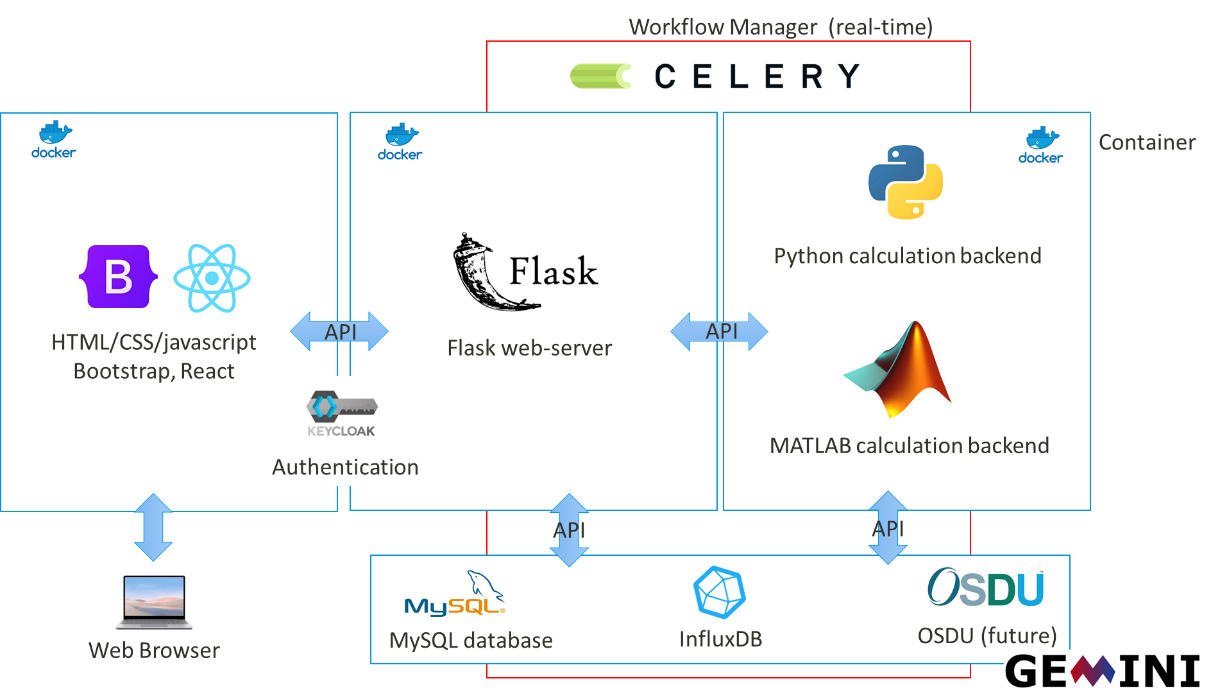
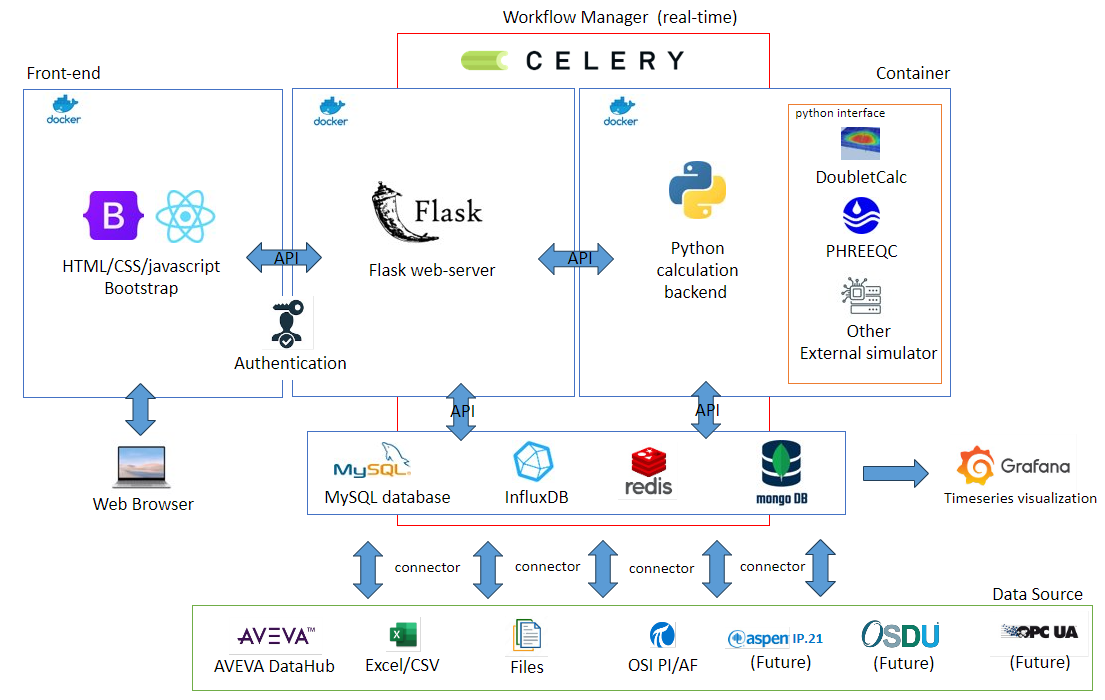
add some text in chpater 1

diff --git a/source/start_installation.rst b/source/start_installation.rst
@@ -1,3 +1,5 @@
+.. _installation:
+
 Installation
 ===========================
 
@@ -14,6 +16,7 @@ docker-compose.yml
  .. code-block::
     :linenos:
 
+
     version: '3.8'
 
     networks:
@@ -21,9 +24,14 @@ docker-compose.yml
 
     services:
         gemini_framework:
-            image: ghcr.io/gemini-digital-twin/gemini-framework:MVP
+            image: ghcr.io/gemini-digital-twin/gemini-framework:MVPv2
             environment:
-                - GEMINI_PLANT=HAL
+                - GEMINI_PLANT=   # put project name
+                - INFLUXDB_URL=http://influxdb:8086
+                - INFLUXDB_ORG=TNO
+                - INFLUXDB_USERNAME=gemini-username
+                - INFLUXDB_PASSWORD=gemini-password
+                - INFLUXDB_BUCKET=gemini-project
             volumes:
                 - project-db:/opt/gemini-project
             depends_on:
@@ -32,23 +40,53 @@ docker-compose.yml
                 - gemini
 
         gemini_gui:
-            image: ghcr.io/gemini-digital-twin/gemini-user-interface:MVP
+            image: ghcr.io/gemini-digital-twin/gemini-user-interface:MVPv2
             ports:
                 - 5101:5101
             environment:
                 - GEMINI_FRONTEND_PORT=5101
                 - GEMINI_MYSQLDB_URL=mysqldb
+                - CELERY_BROKER_URL=redis://redis:6379/0
+                - CELERY_RESULT_BACKEND=redis://redis:6379/0
+                - MONGODB_HOST=mongodb
+                - MONGODB_PORT=27017
+                - MONGODB_USERNAME=root
+                - MONGODB_USERNAME=gemini
+                - INFLUXDB_URL=http://influxdb:8086
+                - INFLUXDB_ORG=TNO
+                - INFLUXDB_USERNAME=gemini-username
+                - INFLUXDB_PASSWORD=gemini-password
+                - INFLUXDB_BUCKET=gemini-project
+                - GEMINI_ADMIN_EMAIL=admin@localhost
+                - GEMINI_ADMIN_PASSWORD=Admin123456!@#$
             restart: unless-stopped
             volumes:
                 - project-db:/opt/gemini-project
                 - doc-db:/opt/gemini-documentation
             depends_on:
                 - mysqldb
+                - influxdb
+                - mongodb
+                - redis
+            networks:
+                - gemini
+
+        gemini_celery:
+            image: ghcr.io/gemini-digital-twin/gemini-celery:MVPv2
+            environment:
+                - PYTHONUNBUFFERED=1
+                - CELERY_BROKER_URL=redis://redis:6379/0
+                - CELERY_RESULT_BACKEND=redis://redis:6379/0
+            restart: unless-stopped
+            volumes:
+                - project-db:/opt/gemini-project
+            depends_on:
+                - redis
             networks:
                 - gemini
 
         gemini_doc:
-            image: ghcr.io/gemini-digital-twin/gemini-documentation:MVP
+            image: ghcr.io/gemini-digital-twin/gemini-documentation:MVPv2
             restart: unless-stopped
             volumes:
                 - doc-db:/opt/gemini-documentation
@@ -56,10 +94,25 @@ docker-compose.yml
                 - gemini
 
         gemini_project:
-            image: ghcr.io/gemini-digital-twin/gemini-project:MVP
+            image: ghcr.io/gemini-digital-twin/gemini-project:MVPv2
             restart: unless-stopped
             volumes:
                 - project-db:/opt/gemini-project
+            networks:
+                - gemini
+
+        grafana:
+            image: grafana/grafana:latest
+            ports:
+                - 3000:3000
+            environment:
+                - GF_SECURITY_ALLOW_EMBEDDING=true
+                - GF_SECURITY_ADMIN_USER=admin
+                - GF_SECURITY_ADMIN_PASSWORD=G3m1n!_@dmin
+            volumes:
+                - grafana-storage:/var/lib/grafana
+            depends_on:
+                - influxdb
             networks:
                 - gemini
 
@@ -77,20 +130,6 @@ docker-compose.yml
             networks:
                 - gemini
 
-        grafana:
-            image: grafana/grafana:latest
-            ports:
-                - 3000:3000
-            environment:
-                - GF_SECURITY_ALLOW_EMBEDDING=true
-                #- GF_SECURITY_COOKIE_SAMESITE=none
-            volumes:
-                - grafana-storage:/var/lib/grafana
-            depends_on:
-                - influxdb
-            networks:
-            - gemini
-
         influxdb:
             image: influxdb:latest
             ports:
@@ -102,11 +141,31 @@ docker-compose.yml
                 - DOCKER_INFLUXDB_INIT_BUCKET=gemini-project
                 - DOCKER_INFLUXDB_INIT_USERNAME=gemini-user
                 - DOCKER_INFLUXDB_INIT_PASSWORD=gemini-password
-                - DOCKER_INFLUXDB_INIT_TOKEN=gemini-token
             volumes:
                 - influxdb-storage:/var/lib/influxdb
                 - influxdb2-storage:/var/lib/influxdb2
                 - influxdb2etc-storage:/etc/influxdb2
+            restart: unless-stopped
+            networks:
+                - gemini
+
+        redis:
+            image: redis:6-alpine
+            ports:
+                - 6379:6379
+            restart: unless-stopped
+            networks:
+                - gemini
+
+        mongodb:
+            image: mongo:latest
+            ports:
+                - 27017:27017
+            environment:
+                - MONGO_INITDB_ROOT_USERNAME=root
+                - MONGO_INITDB_ROOT_PASSWORD=gemini
+            volumes:
+                - mongo-storage:/data/db
             restart: unless-stopped
             networks:
                 - gemini
@@ -120,6 +179,8 @@ docker-compose.yml
         influxdb2etc-storage:
         project-db:
         doc-db:
+        mongo-storage:
+
 
 There are several services in this docker-compose.yml file:
 
@@ -134,6 +195,10 @@ There are several services in this docker-compose.yml file:
     to access user authentication and project. The port number can be defined in GEMINI_FRONTEND_PORT
     environment variable. The container shares volume of project-db with other container to have a
     common project data and volume of doc-db to access the documentation.
+
+#. GEMINI Celery
+    Celery is an open source asynchronous task queue or job queue which is based on distributed
+    message passing. While it supports scheduling, its focus is on operations in real time.
 
 #. GEMINI Documentation
     This container provides the web-based documentation of GEMINI. The content is shared with GEMINI
@@ -157,6 +222,15 @@ There are several services in this docker-compose.yml file:
     data in fields such as operations monitoring, application metrics, Internet of Things sensor
     data, and real-time analytics. We use this database to store time series data from Geothermal
     assets.
+
+#. REDIS
+    Redis is an open source data structure server. It belongs to the class of NoSQL databases known
+    as key/value stores. Redis is used as result and message broker of celery workflow.
+
+#. MongoDB
+    MongoDB is built on a scale-out architecture that has become popular with developers of all
+    kinds for developing scalable applications with evolving data schemas. As a document database,
+    MongoDB makes it easy for developers to store structured or unstructured data.
 
 
 

diff --git a/source/start_projects.rst b/source/start_projects.rst
@@ -2,7 +2,8 @@
 
 Projects
 ===========================
-**Note:** Users can create a project, but only an administrator can delete one. Additionally, an administrator can assign users to an existing project. Once assigned, users can modify the project.
+.. note::
+    Users can create a project, but only an administrator can delete one. Additionally, an administrator can assign users to an existing project. Once assigned, users can modify the project.
 
 Create New Project
 ---------------------------
@@ -31,7 +32,10 @@ Create New Project
         :width: 100%
 
 
-**Steps for Administrators to Assign Users to a New Project:**
+Project Group
+---------------------------
+
+**Steps for Administrators to Assign Users to a Project using Group:**
 
 1. Log in as Administrator:
 
@@ -89,7 +93,8 @@ Open Existing Project
 Delete Project
 ---------------------------
 
-**Note:** Only an administrator can delete a project.
+.. note::
+    Only an administrator can delete a project.
 
 **Steps for Administrators to delete a Project:**
 
@@ -112,22 +117,4 @@ Delete Project
    - Once confirmed, close the project.
 
     .. image:: images/Start_project_14.jpg
-        :width: 100%
-    
-3. Remove Project from Admin Manager:
-
-   - Navigate to the Admin Manager page. Under the "Project" option, select the "bin" icon or use the "Delete" option from the dropdown menu ("With Selected" option).
-
-    .. image:: images/Start_project_15.jpg
-        :width: 100%
-        
-   - Confirm the deletion when prompted.
-
-    .. image:: images/Start_project_16.jpg
-        :width: 100%
-
-
-   - A confirmation message will appear once the selected project is deleted successfully.
-
-    .. image:: images/Start_project_17.jpg
         :width: 100%

diff --git a/source/start_login.rst b/source/start_login.rst
@@ -1,17 +1,22 @@
 Login Page
 ================================
+
+The login page can be accessed via web browser using url: http://localhost:5101/. Note: this url is only for local installation. For server implementation, you need to access the IP address or DNS of the machine.
+
     .. image:: images/Start_login.JPG
         :width: 100%
 
 Sign Up
 --------------------------------
-**Note:** The sign-up process must be completed by an administrator. Users cannot self-register and will need to contact an administrator to create their account.
+.. note::
+    The sign-up process must be completed by an administrator. Users cannot self-register and will need to contact an administrator to create their account.
 
 **Steps for Administrators to Sign Up a New User:**
 
 1. Log in as Administrator:
 
    - Navigate to the login page and sign in using your administrator credentials.
+   - The administrator credentials can be found in :numref:`installation`
 
 
 2. Access User Management:

diff --git a/source/index_getting_started.rst b/source/index_getting_started.rst
@@ -3,14 +3,14 @@
 Getting started
 ==============================================
 
-In this page you can find the links to all pages that give a general overview to the GEMINI project, structure, and open-source strategy.
+In this page you can find the instructions how to install GEMINI in cloud or on-premises, user management, project management and description of the home page.
 
 
 .. toctree::
     :maxdepth: 1
-    :caption: Links
+    :caption: Pages
 
     start_installation
     start_login
-    start_main_page
     start_projects
+    start_main_page

diff --git a/source/start_main_page.rst b/source/start_main_page.rst
@@ -1,6 +1,8 @@
 Main Page Overview
 ===========================
 
+The main page only can be accessed after opening a project.
+
 .. image:: images/Start_project_11.jpg
     :width: 100%
 
